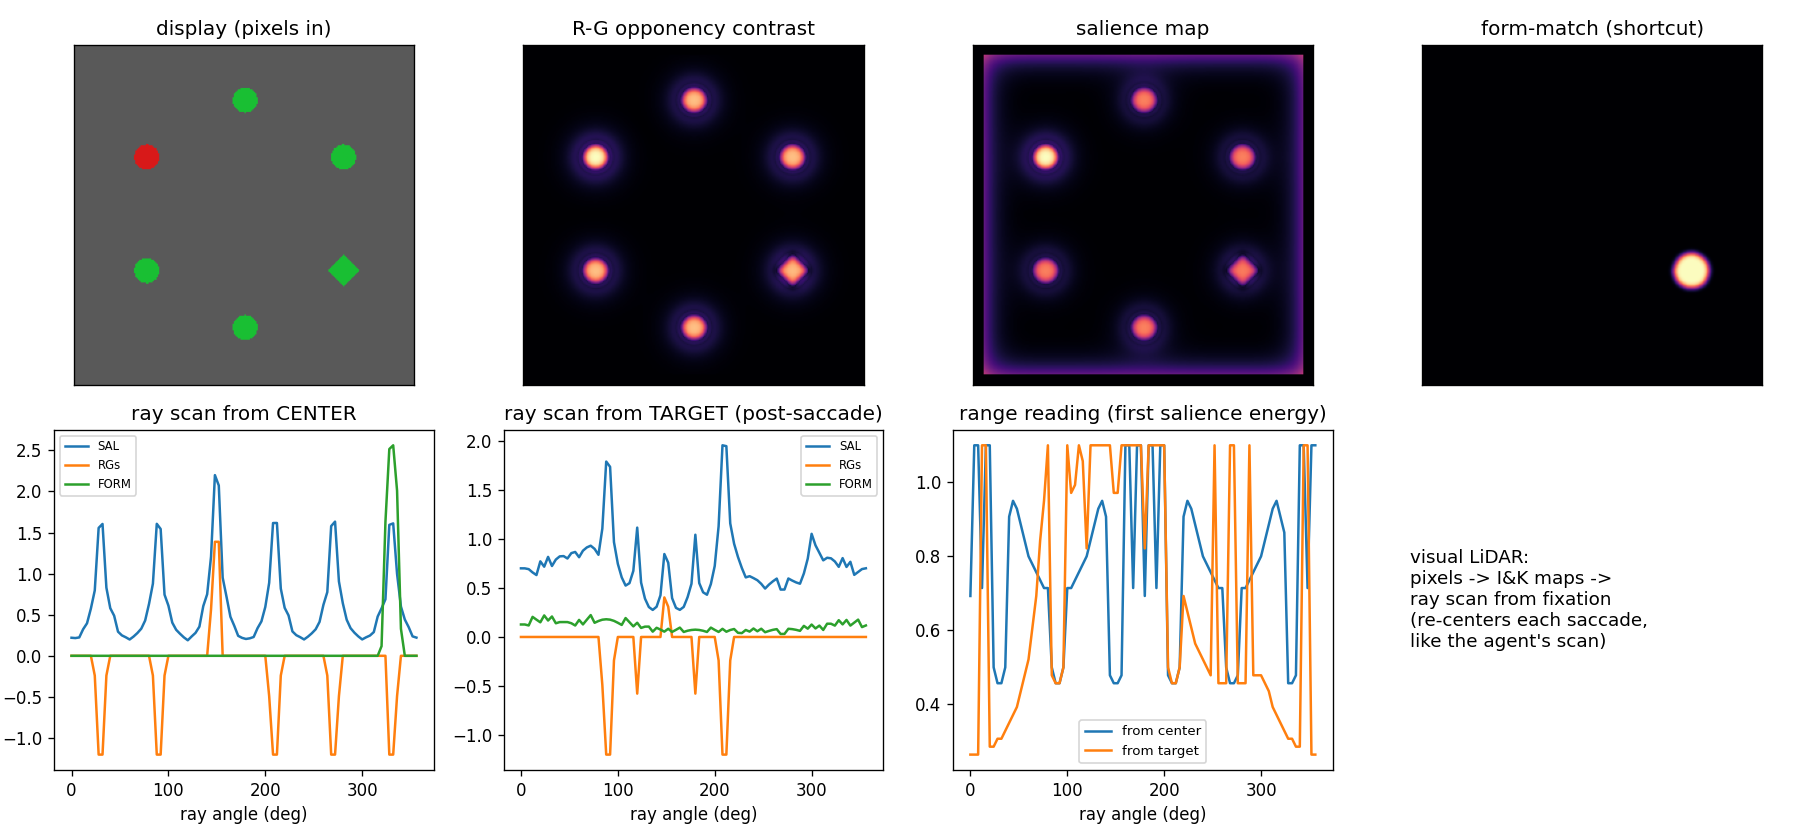
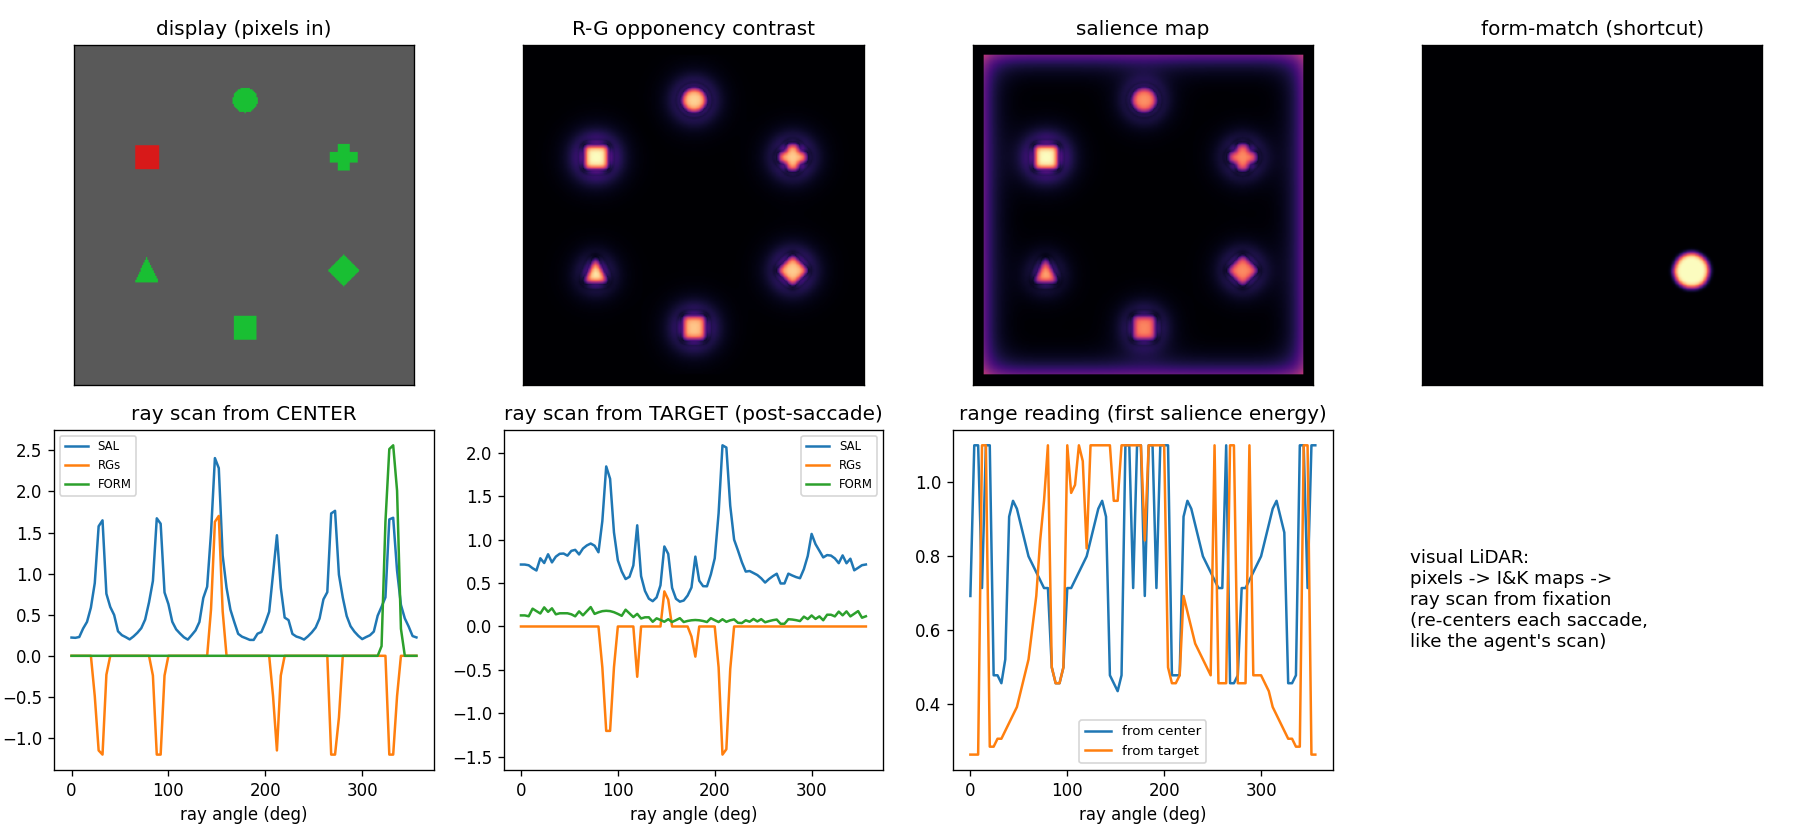
Correct reconstruction to feature-search displays; verify invariance
Nontarget shapes are now heterogeneous (shape_for: circle, square,
triangle, cross around the diamond target), matching the source
paradigm where the target is never a shape singleton. Contexts
rebuilt, model refit: all psychological parameters unchanged to two
decimals; held-out NLL 1.2471 (was 1.2408). Notebook demo display
corrected and the full notebook re-verified end to end on the
rebuilt contexts (29.6% mean probability, 54.9% top-1, R2 0.280).
RESULTS records the correction and the parameter audit (what is
per-trial data-sourced vs paper-sourced assumption).

diff --git a/Visual-Search/front_end.py b/Visual-Search/front_end.py
@@ -49,12 +49,34 @@ def render(items):
     r_px = ITEM_R / 1.5 * IMG
     for it in items:
         cx, cy = to_px(it["x"]), to_px(it["y"])
-        if it.get("shape", "circle") == "diamond":
+        shape = it.get("shape", "circle")
+        if shape == "diamond":
             mask = (np.abs(xx - cx) + np.abs(yy - cy)) < 1.3 * r_px
+        elif shape == "square":
+            mask = (np.abs(xx - cx) < 0.95 * r_px) & (np.abs(yy - cy) < 0.95 * r_px)
+        elif shape == "triangle":
+            mask = ((yy - cy > -0.9 * r_px)
+                    & (np.abs(xx - cx) < 0.95 * r_px * (1 - (yy - cy + 0.9 * r_px)
+                                                        / (2.0 * r_px))))
+        elif shape == "cross":
+            mask = (((np.abs(xx - cx) < 0.45 * r_px) & (np.abs(yy - cy) < 1.1 * r_px))
+                    | ((np.abs(yy - cy) < 0.45 * r_px) & (np.abs(xx - cx) < 1.1 * r_px)))
         else:
             mask = (xx - cx) ** 2 + (yy - cy) ** 2 < r_px ** 2
         img[mask] = COLORS[it["color"]]
     return img
+
+
+NONTARGET_SHAPES = ["circle", "square", "triangle", "cross", "hexagon"]
+
+
+def shape_for(slot, targ_slot, template_shape="diamond"):
+    """Feature-search displays: the target is the template shape among
+    HETEROGENEOUS nontarget shapes (the target is never a shape
+    singleton - inclusion criterion of the source studies)."""
+    if slot == targ_slot:
+        return template_shape
+    return NONTARGET_SHAPES[slot % 4]
 
 
 def _gauss_blur(m, sigma):
@@ -133,15 +155,14 @@ def ray_scan(maps, fix_xy, n_rays=90, n_bins=48, max_r=1.1):
 
 
 def demo_display():
-    """Gaspelin-style display: green diamond target among green circles,
-    one red circle singleton; 6 items on the ring."""
+    """Gaspelin-style feature-search display: green diamond target among
+    HETEROGENEOUS green nontarget shapes, one red singleton; 6 items."""
     items = []
     for j in range(6):
         a = 2 * np.pi * j / 6 - np.pi / 2
         color = "red" if j == 4 else "green"
-        shape = "diamond" if j == 1 else "circle"
         items.append(dict(x=ECC * np.cos(a), y=ECC * np.sin(a),
-                          color=color, shape=shape))
+                          color=color, shape=shape_for(j + 1, 2)))
     return items
 
 

diff --git a/Visual-Search/build_contexts.py b/Visual-Search/build_contexts.py
@@ -4,7 +4,8 @@ Reconstruction assumptions (licensed by the paradigm's inclusion
 criteria and per-trial targCol/singCol columns): items on an
 iso-eccentric ring; all items in the target color except the singleton,
 which is in the opposite color; the target is the template shape
-(diamond) among circles. Displays repeat massively, so the front-end
+(diamond) among HETEROGENEOUS nontarget shapes (feature search - the
+target is never a shape singleton, per the source studies' design). Displays repeat massively, so the front-end
 runs once per unique context (setsize, targLoc, singLoc, targCol,
 singCol, fixation) and every saccade looks its context up.
 
@@ -26,7 +27,8 @@ dataset/saccades_ctx.csv.
 import numpy as np
 import pandas as pd
 
-from front_end import COLORS, ECC, IMG, _gauss_blur, form_map, render, ray_scan
+from front_end import (COLORS, ECC, IMG, _gauss_blur, form_map,
+                       render, ray_scan, shape_for)
 
 OPPONENT = {"green": "red", "red": "green", "blue": "orange",
             "orange": "blue", "pink": "teal", "teal": "pink"}
@@ -89,8 +91,8 @@ def build_context(setsize, targLoc, singLoc, targCol, singCol):
     items = []
     for j in range(setsize):
         color = singCol if (j + 1) == singLoc and singCol != "none" else targCol
-        shape = "diamond" if (j + 1) == targLoc else "circle"
-        items.append(dict(x=pos[j][0], y=pos[j][1], color=color, shape=shape))
+        items.append(dict(x=pos[j][0], y=pos[j][1], color=color,
+                          shape=shape_for(j + 1, targLoc)))
     img = render(items)
     maps = color_similarity_maps(
         img, COLORS.get(targCol),

diff --git a/Visual-Search/build_contexts_v21.py b/Visual-Search/build_contexts_v21.py
@@ -26,7 +26,7 @@ import numpy as np
 import pandas as pd
 
 from build_contexts import (COLORS, item_positions, normalize_colors)
-from front_end import ECC, IMG, _gauss_blur, form_map, render
+from front_end import ECC, IMG, _gauss_blur, form_map, render, shape_for
 
 NBINS = 24
 NRAYS = 90
@@ -116,8 +116,7 @@ def main():
             items = [dict(x=pos[j][0], y=pos[j][1],
                           color=(singCol if (j + 1) == singLoc
                                  and singCol != "none" else targCol),
-                          shape=("diamond" if (j + 1) == targLoc
-                                 else "circle"))
+                          shape=shape_for(j + 1, targLoc))
                      for j in range(setsize)]
             img = render(items)
             cache[dk] = (opponency_contrast(img), form_map(items),

diff --git a/Visual-Search/RESULTS.md b/Visual-Search/RESULTS.md
@@ -364,6 +364,24 @@ exactly where W&T observed the gradient and where the agent-side
 spread trace earned its keep. A biased-design human fit is the
 experiment that would estimate it.
 
+## Reconstruction correction: feature-search displays
+
+The initial reconstruction rendered the target diamond among identical
+circles - accidentally a shape-singleton display, which the source
+studies' inclusion criteria specifically avoid. Corrected: nontarget
+shapes are heterogeneous (circle/square/triangle/cross), matching the
+feature-search paradigm. Refit on rebuilt contexts: every
+psychological parameter unchanged to two decimals (beta_T 1.87,
+beta_D -0.26, eta_T 0.63, eta_D 0.20, g_I -2.10); held-out NLL 1.2471
+(vs 1.2408 before) - shape enters the model only through the analytic
+form channel, so the fit is invariant as the architecture predicts.
+Parameter audit: set size (6 per study; Hamblin 4), colors (including
+Stilwell's within-study singleton-salience colors and Gaspelin 2019's
+four counterbalanced pairs), and item distances are all taken
+per-trial from the data files; shapes, item size, and background are
+paper-sourced reconstruction assumptions (the display-parameter
+details are not in the OSF trial files or summary workbook).
+
 ## Caveats on record
 
 - **The envelope's width is combination-rule-conditional** (see the ⊗
